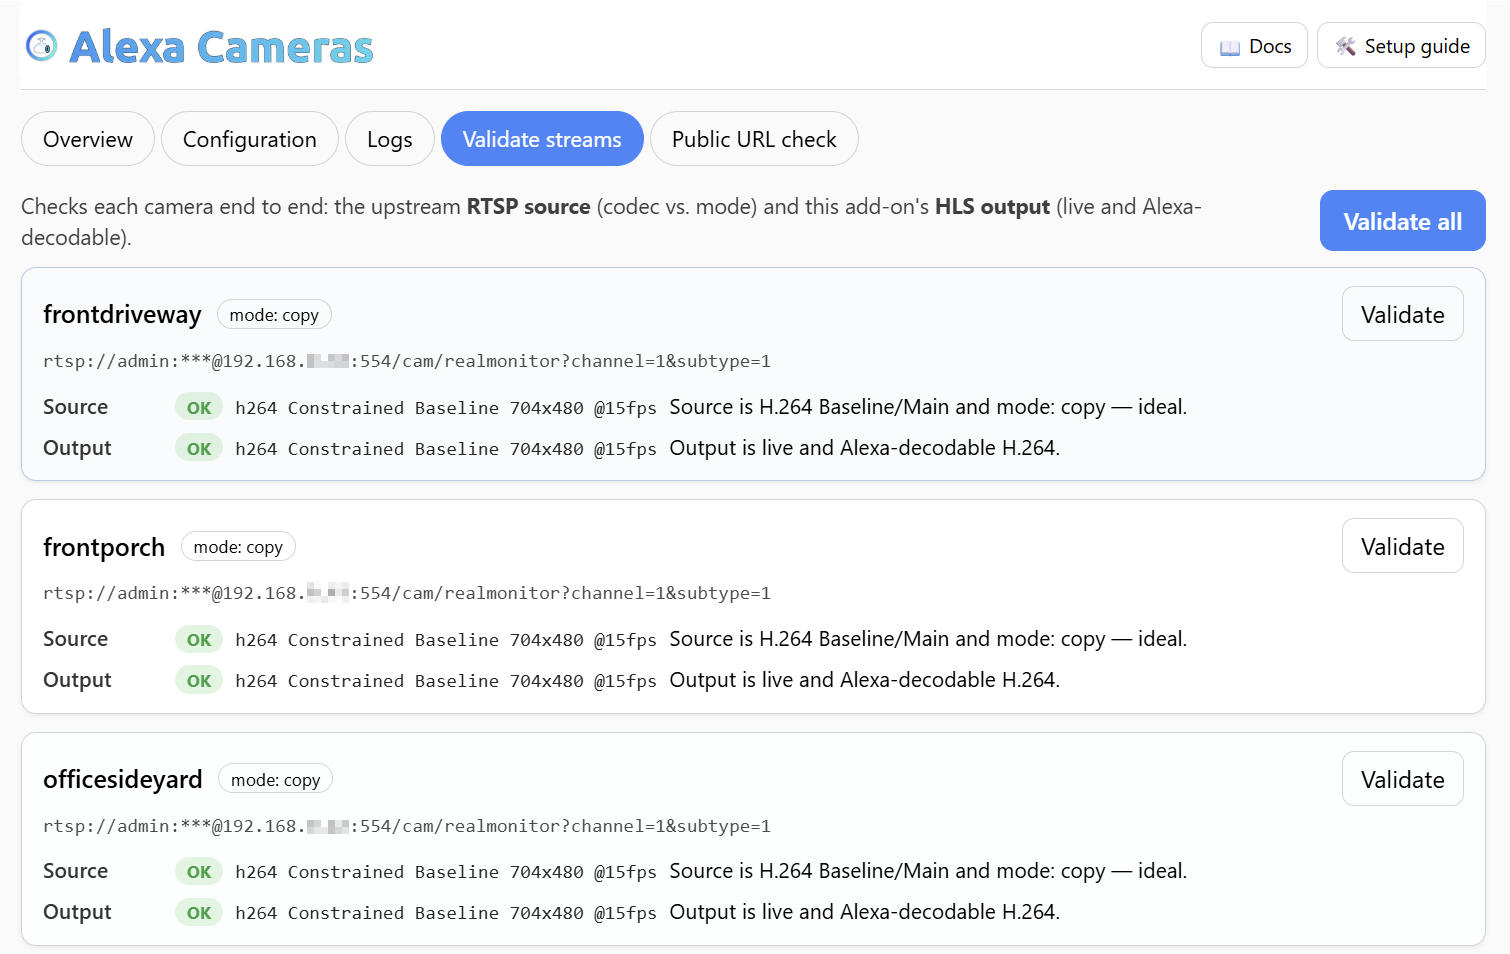
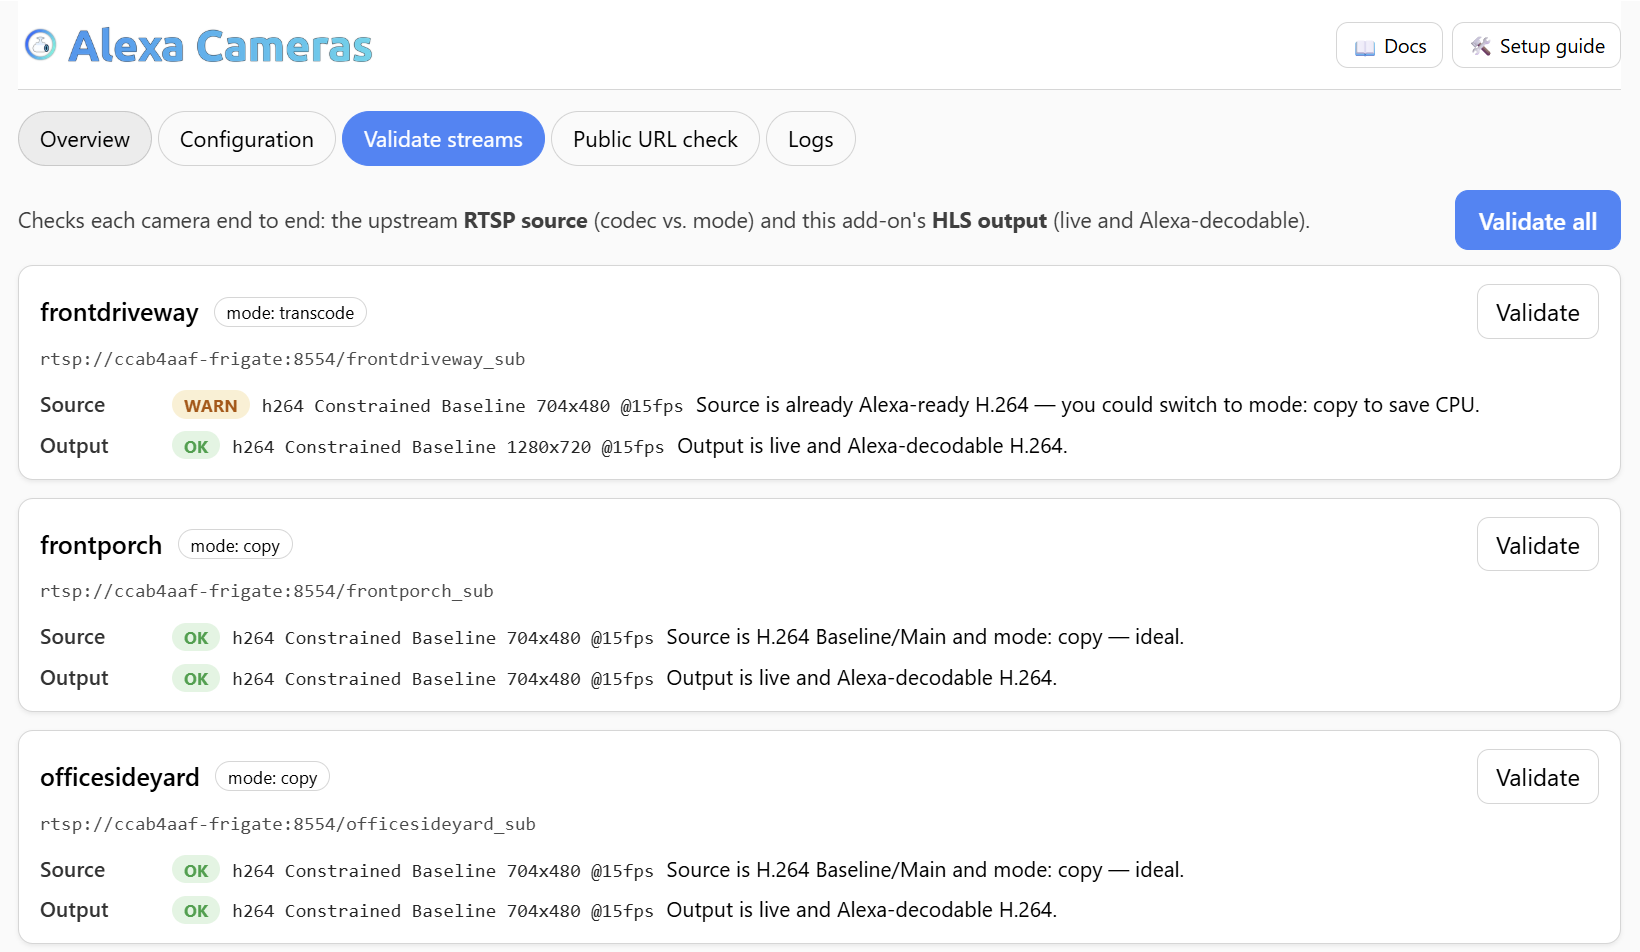
docs: use one combined Validate streams screenshot (WARN-could-copy + two ideal copy cams, restream URLs); drop validate-stream-h246.png

diff --git a/alexa_cameras/DOCS.md b/alexa_cameras/DOCS.md
@@ -249,12 +249,12 @@ on the add-on's own output. Per camera it reports:
 - **Output** — confirms the add-on's `:8888` HLS is live and decodable H.264 Baseline (what Alexa
   actually opens).
 
-Green means good; anything wrong is called out in plain English. Here it flags a `transcode`
-camera whose source is *already* H.264 Baseline, so it could switch to `copy` and save CPU:
+Green means good; anything off is flagged in plain English. Below, **frontdriveway** on
+`transcode` gets a **WARN** — its source is *already* Alexa-ready H.264 Baseline, so it could
+switch to `copy` and save CPU — while **frontporch** and **officesideyard** on `copy` read **OK**
+(source is H.264 Baseline *and* the output is live, decodable H.264):
 
-![Validate streams — source already H.264 Baseline, could use copy](https://raw.githubusercontent.com/Hu1kSmash/ha-alexa-cameras/main/docs/images/validate-stream-h246.png)
-
-![Validate streams — healthy cameras](https://raw.githubusercontent.com/Hu1kSmash/ha-alexa-cameras/main/docs/images/validate-streams.png)
+![Validate streams — one transcode camera flagged that it could switch to copy, and two ideal copy cameras (source and output both OK)](https://raw.githubusercontent.com/Hu1kSmash/ha-alexa-cameras/main/docs/images/validate-streams.png)
 
 > ⚠️ **Heads-up about Frigate birdseye — expect idle errors, and they're harmless.**
 >